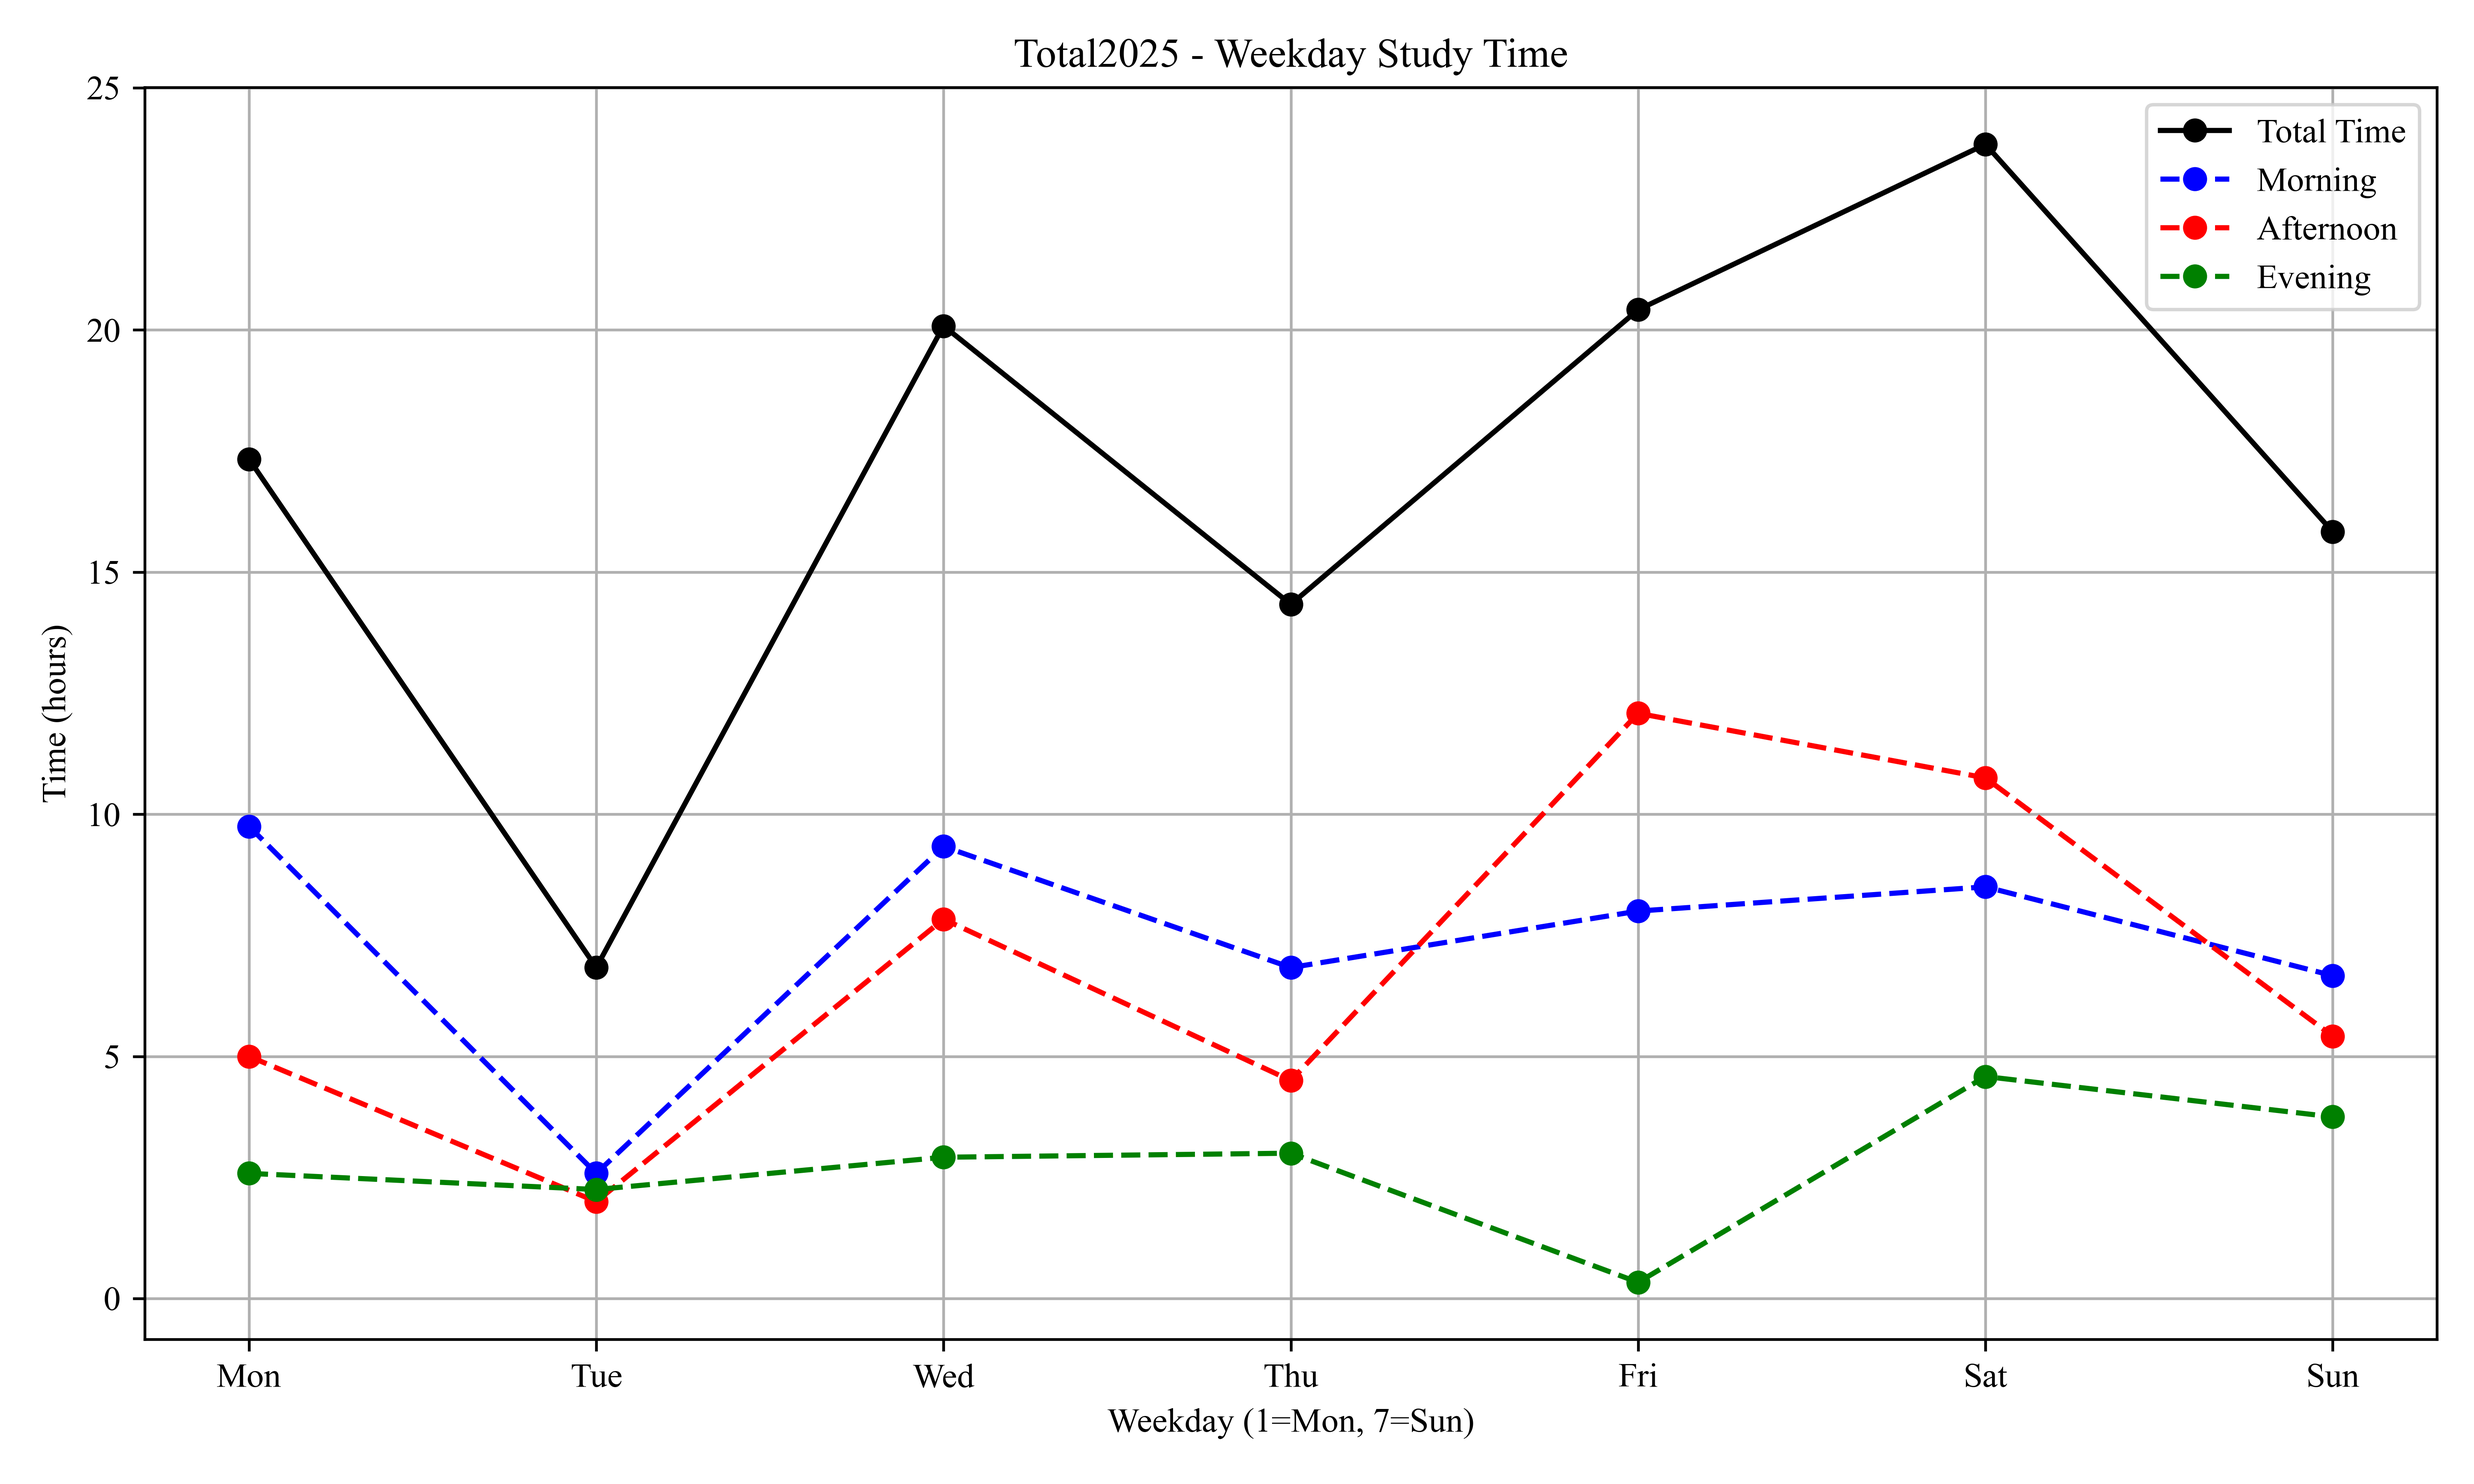
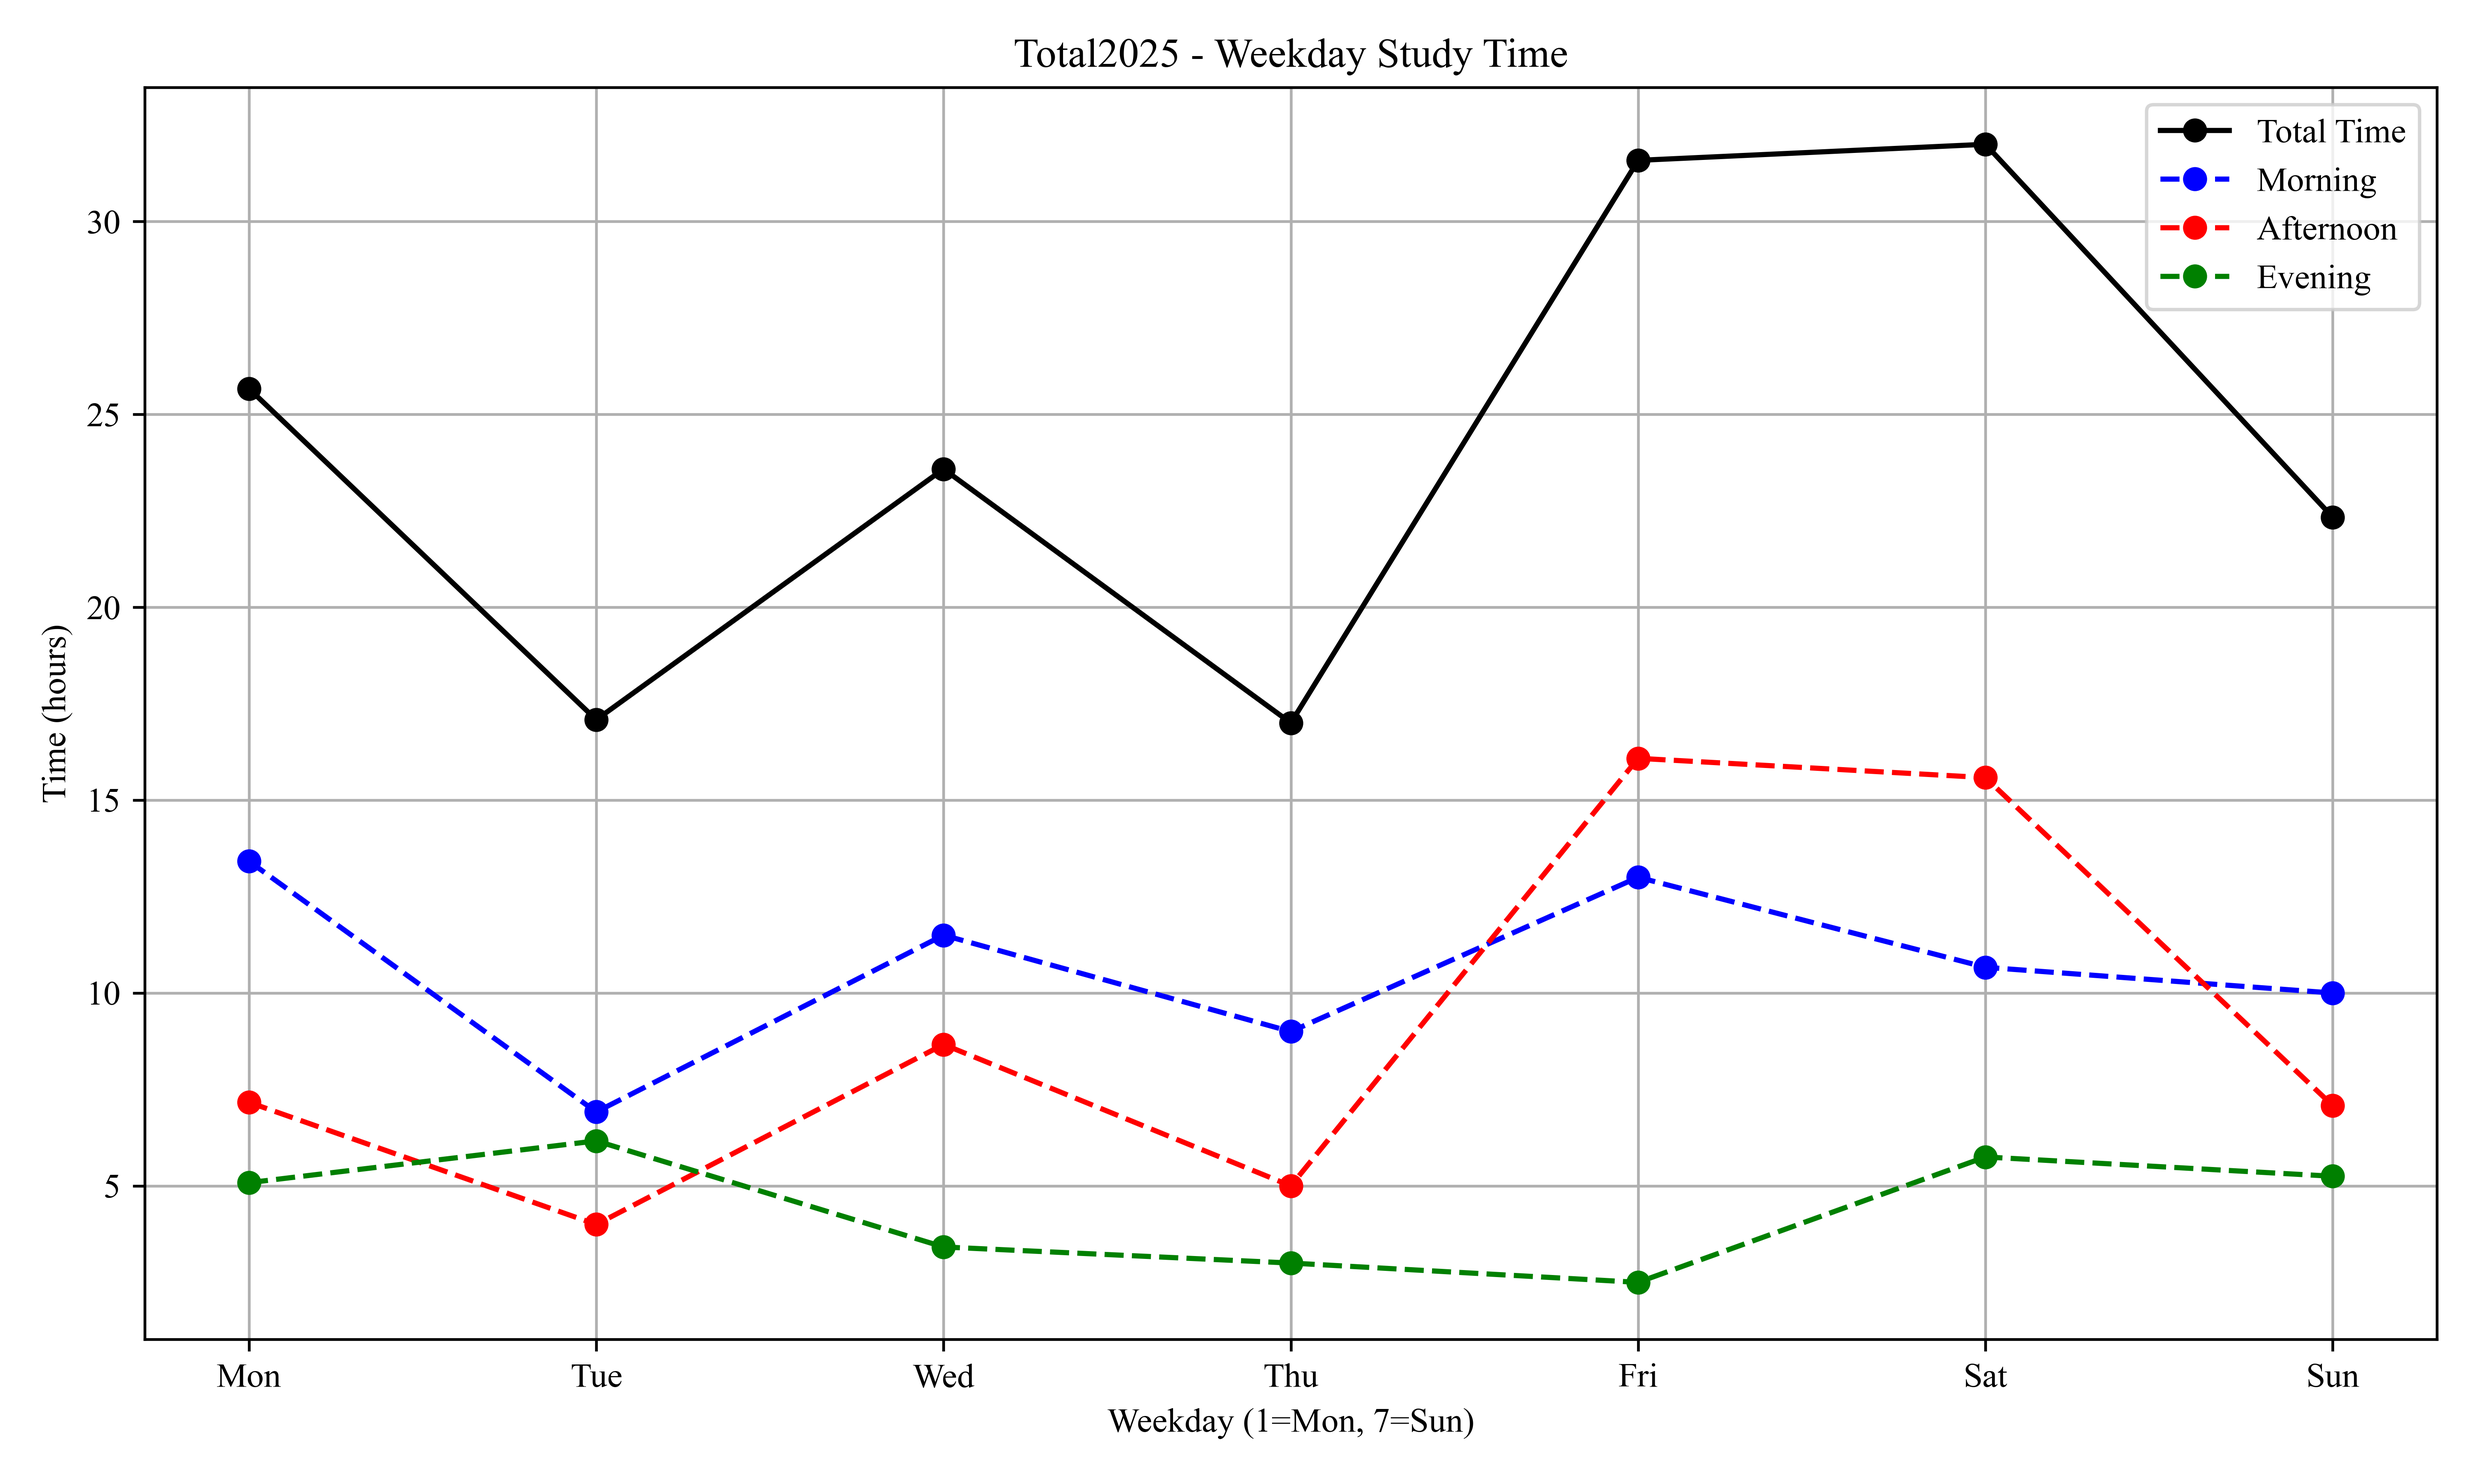
更新寒假时长的统计

diff --git a/data/规划.md b/data/规划.md
@@ -83,19 +83,25 @@
 
 
 为了更好的明天，请加油吧！
-> 向着奇迹的大门，共同迈步前进吧！
+> 向着奇迹的大门，共同迈步前进吧！！！
 
 
 ---
 
 开学-3月：
 - 整体目标：将每日学习时间逐渐从6h升到7h
-- 数学：完成基本的笔记整理。武忠祥高数。杨超三大计算高数+线代。张宇1000。汤家凤复习全书。
-  - 此刻开始每周周测（模拟卷），初步时间定为周六上午。
-- 408: 王道数据结构，操作系统，计组
-- 英语：背单词。阅读新东方基础100篇每日2-3篇、周末3-4篇。来川、华研基础。
+- 数学：完成基本的笔记整理。重刷张宇基础30。张宇1000。杨超三大计算高数+线代。武忠祥高数。
+  - 此刻开始每周周测（模拟卷），初步时间定为**周六上午**。暂不整理试卷错题。
+  - 3月开始完成**笔记**整理，优先级高于刷题。
+  - 余炳森在**2.28**前完成，不要再拖沓了。。开学也没什么课，卷啊！
+  - 做了这么多，还是感觉张宇30讲的最详细，再刷一次并完善笔记。尽量在**3.16**前完成。
+  - 杨超三大计算在**3.23**前完成。
+  - 武忠祥高数在**3.31**前完成。
+- 408: 王道
+  - 还是先开数据结构了，计网跟上课一起整了。数据结构尽量在**3.16**前完成。然后开操作系统。
+- 英语：背单词。阅读新东方基础100篇每日**2-3**篇、周末3-4篇。来川、华研基础。
   - 阅读初步定于每日下午、晚饭后、回寝前，周末可以午饭前整一篇。
-  - 3.15前完成新东方基础100篇。
+  - **3.15**前完成新东方基础100篇，一定要疯狂启动啊！
   - 来川、华研去学校了再安排。
 - 非考研：看完花书。重看鸢尾花第4~7本，修订笔记。尽量重学机器学习，参考[白板笔记](https://www.yuque.com/bystander-wg876/yc5f72)
   - 先看花书吧，大概每周周末看一下，然后每周2-3章。鸢尾花到时候再看安排。
@@ -104,7 +110,7 @@
 
 4月：
 - 整体目标：将每日学习时间逐渐从7h升到8h
-- 数学：李艳芳900。李开丁概率论，8套劵。武忠祥660,330
+- 数学：汤家凤复习全书。李艳芳900。李开丁概率论，8套劵。武忠祥660,330
 - 408：中公习题，复习课本。
 - 英语：完成单词一轮，华研基础阅读150。
 - 非考研：看完鸢尾花书。

diff --git a/data/学习时长.md b/data/学习时长.md
@@ -141,7 +141,7 @@
 | 1.14 | 10:55-11:45, 15:30-18:00 | |
 | 1.15 | 9:20-11:30, 14:00-15:45, 15:45-17:00 | |
 | 1.16 | 9:15-11:00, 16:30-18:00 | |
-| 1.17 | 9:15-10:45, 11:50-12:30, 15:00-17:30 | |
+| 1.17 | 9:15-10:45, 11:50-12:30, 15:00-17:30 | 李王武全书提高篇高数 |
 | 1.18 | 9:15-11:10, 14:45-18:15 | |
 | 1.19 | 9:15-11:00, 14:50-17:00 | |
 | 1.20 | 9:00-11:45, 14:35-15:45, 16:20-18:10, 21:55-23:00 | |
@@ -149,8 +149,29 @@
 | 1.22 | 9:30-10:45, 14:30-14:50 | |
 | 1.23 | 9:10-10:00 | |
 | 1.24 | 9:45-11:00, 14:15-16:30 | |
-| 1.25 | 9:20-12:15, 14:45-17:30, 19:00-19:30, 20:10-22:00 | |
+| 1.25 | 9:20-12:15, 14:45-17:30, 19:00-19:30, 20:10-22:00 | 880高数 |
 | 1.26 | 20:00-20:40 | |
+| 1.27 | 9:20-10:30, 15:20-15:50 | |
+| 1.30 | 9:30-10:00 | |
+| 1.31 | 9:00-10:15 | |
+| 2.1 | 14:30-17:15 | |
+| 2.2 | 9:45-11:00, 14:55-15:25, 20:45-22:15 | |
+| 2.3 | 15:40-17:20, 21:40-22:30 | |
+| 2.4 | 9:45-11:20, 14:55-15:40, 22:20-23:05 | 李王武全书提高篇线代 |
+| 2.5 | 9:50-11:05, 15:00-15:50 | |
+| 2.6 | 10:05-11:00 | |
+| 2.7 | 9:40-12:00, 15:00-17:15 | 880线代 |
+| 2.7 | 22:30-23:00 | |
+| 2.8 | 9:50-11:00, 14:45-16:50, 21:50-23:00 | |
+| 2.9 | 9:45-11:05, 14:30-15:40 | 李王武全书提高篇概率 |
+| 2.10 | 8:20-9:40, 10:30-11:40, 20:00-21:40 | |
+| 2.11 | 8:30-11:15, 14:45-16:00, 20:00-23:10 | |
+| 2.12 | 9:15-10:10 | 880概率 |
+| 2.12 | 17:30-18:00 | |
+| 2.13 | 10:15-11:00, 16:05-16:35 | |
+| 2.14 | 9:20-10:45, 14:00-15:45, 19:40-21:20 | |
+| 2.15 | 10:00-11:00 | |
+| 2.16 | 10:50-11:35 | | 
 
 
 </div>

diff --git a/data/学习状态.md b/data/学习状态.md
@@ -51,10 +51,10 @@
 | 2.9 | - | 3 | 4 | 2 | 3 | 4h16 | 5h27 | 春回大地了，心情好一些了。终于把复习全书提高篇写完了，后面大概两三天把880写完吧 |
 | 2.10 | - | 3 | 4 | 3 | 5 | 4h7 | 4h26 | 今天状态还可以，概率论真简单吧 |
 | 2.11 | - | 4 | 4 | 3 | 4 | 4h32 | 3h36 | 今天状态不错，但是这880的参数估计咋这难呢？ |
-| 2.12 | - | 3 | 4 | 2 | 3 |  |  | 出门，状态一般，但是写完了880，余炳森启动了一点，本来以为很简单，结果错一堆简单的题。还有几天就就开学了，假期废了 |
-| 2.13 | 1000Ch1-3 | 2 | 2 | 1 | 2 |  |  | 不仅状态不好，错误率也比预期的高太多了，还只写到Ch2 |
-| 2.14 | 1000Ch4-6 |  |  |  |  |  |  |  |
-| 2.15 | 1000Ch7,8 |  |  |  |  |  |  |  |
+| 2.12 | - | 3 | 4 | 2 | 3 | 8h10 | 1h38 | 出门，状态一般，但是写完了880，余炳森启动了一点，本来以为很简单，结果错一堆简单的题。还有几天就就开学了，假期废了 |
+| 2.13 | 1000Ch1-3 | 2 | 2 | 1 | 2 | 6h2 | 5h55 | 不仅状态不好，错误率也比预期的高太多了，还只写到Ch2 |
+| 2.14 | 1000Ch4-6 | 3 | 3 | 2 | 3 | 6h35 | 2h33 | 准确率还行了 |
+| 2.15 | 1000Ch7,8 | 2 | 3 | 2 | 2 | 4h20 | 8h31 | 没啥写数学的心情，写了一天代码 |
 | 2.16 | 返校 |  |  |  |  |  |  |  |
 
 </div>
